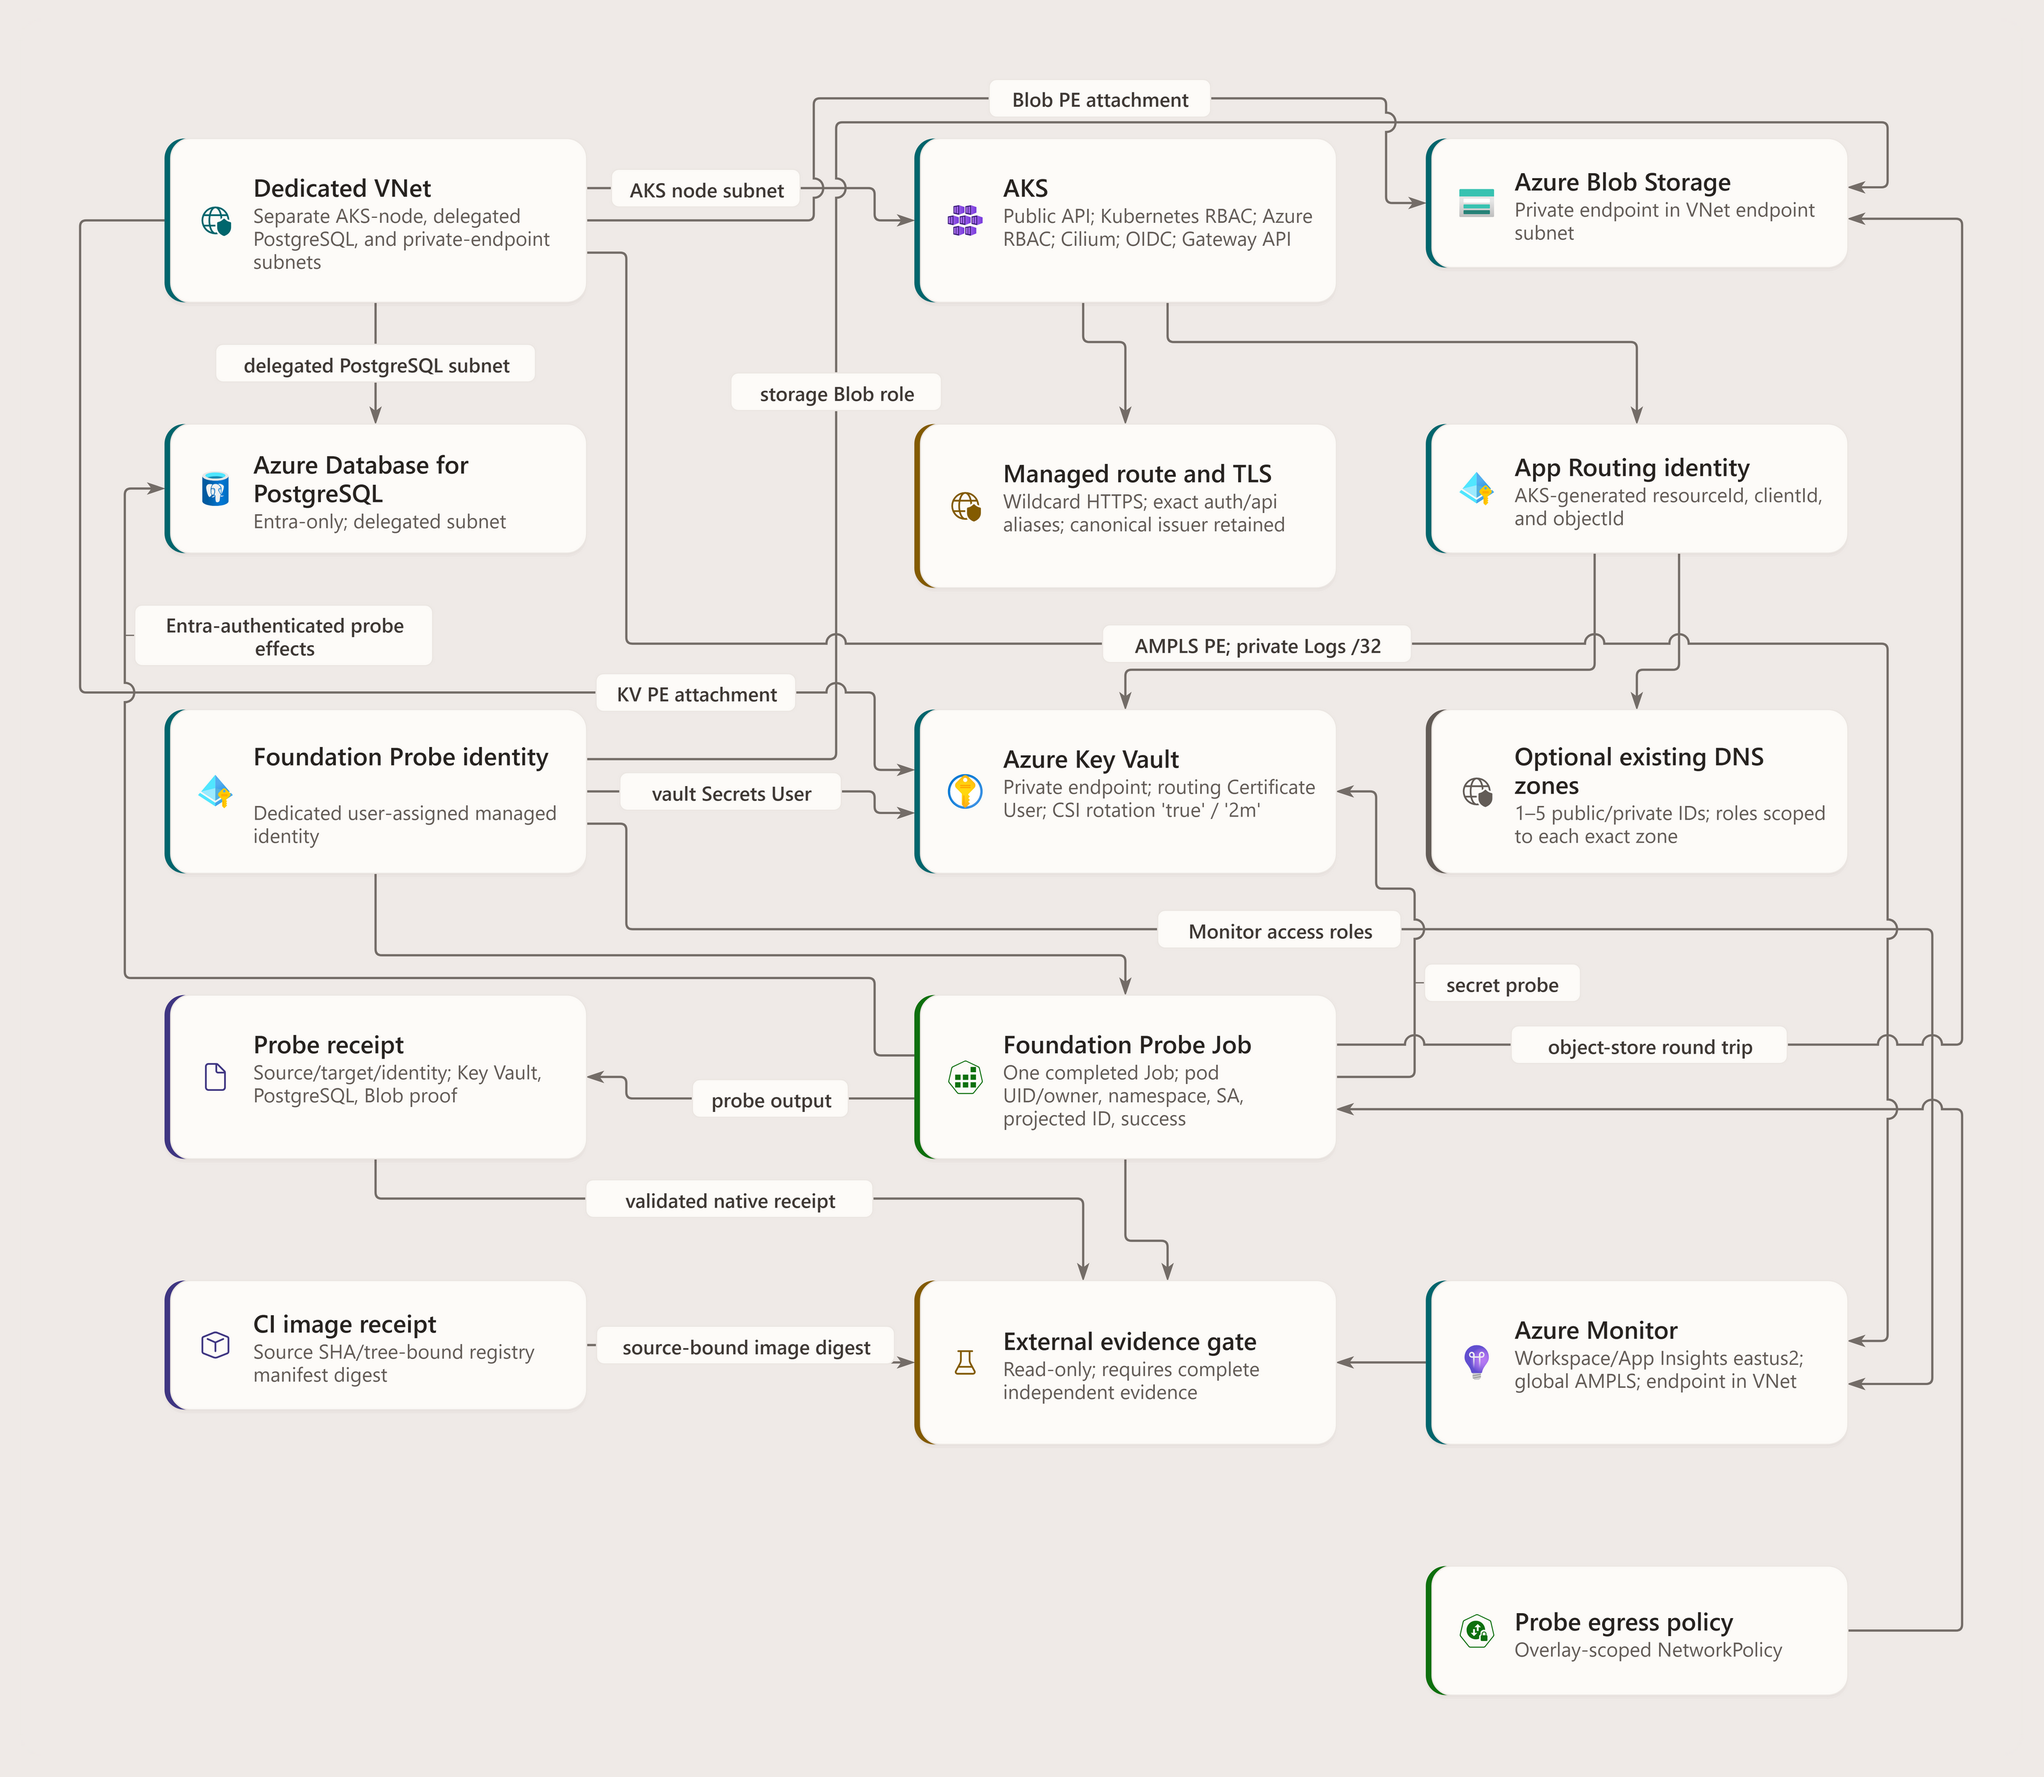
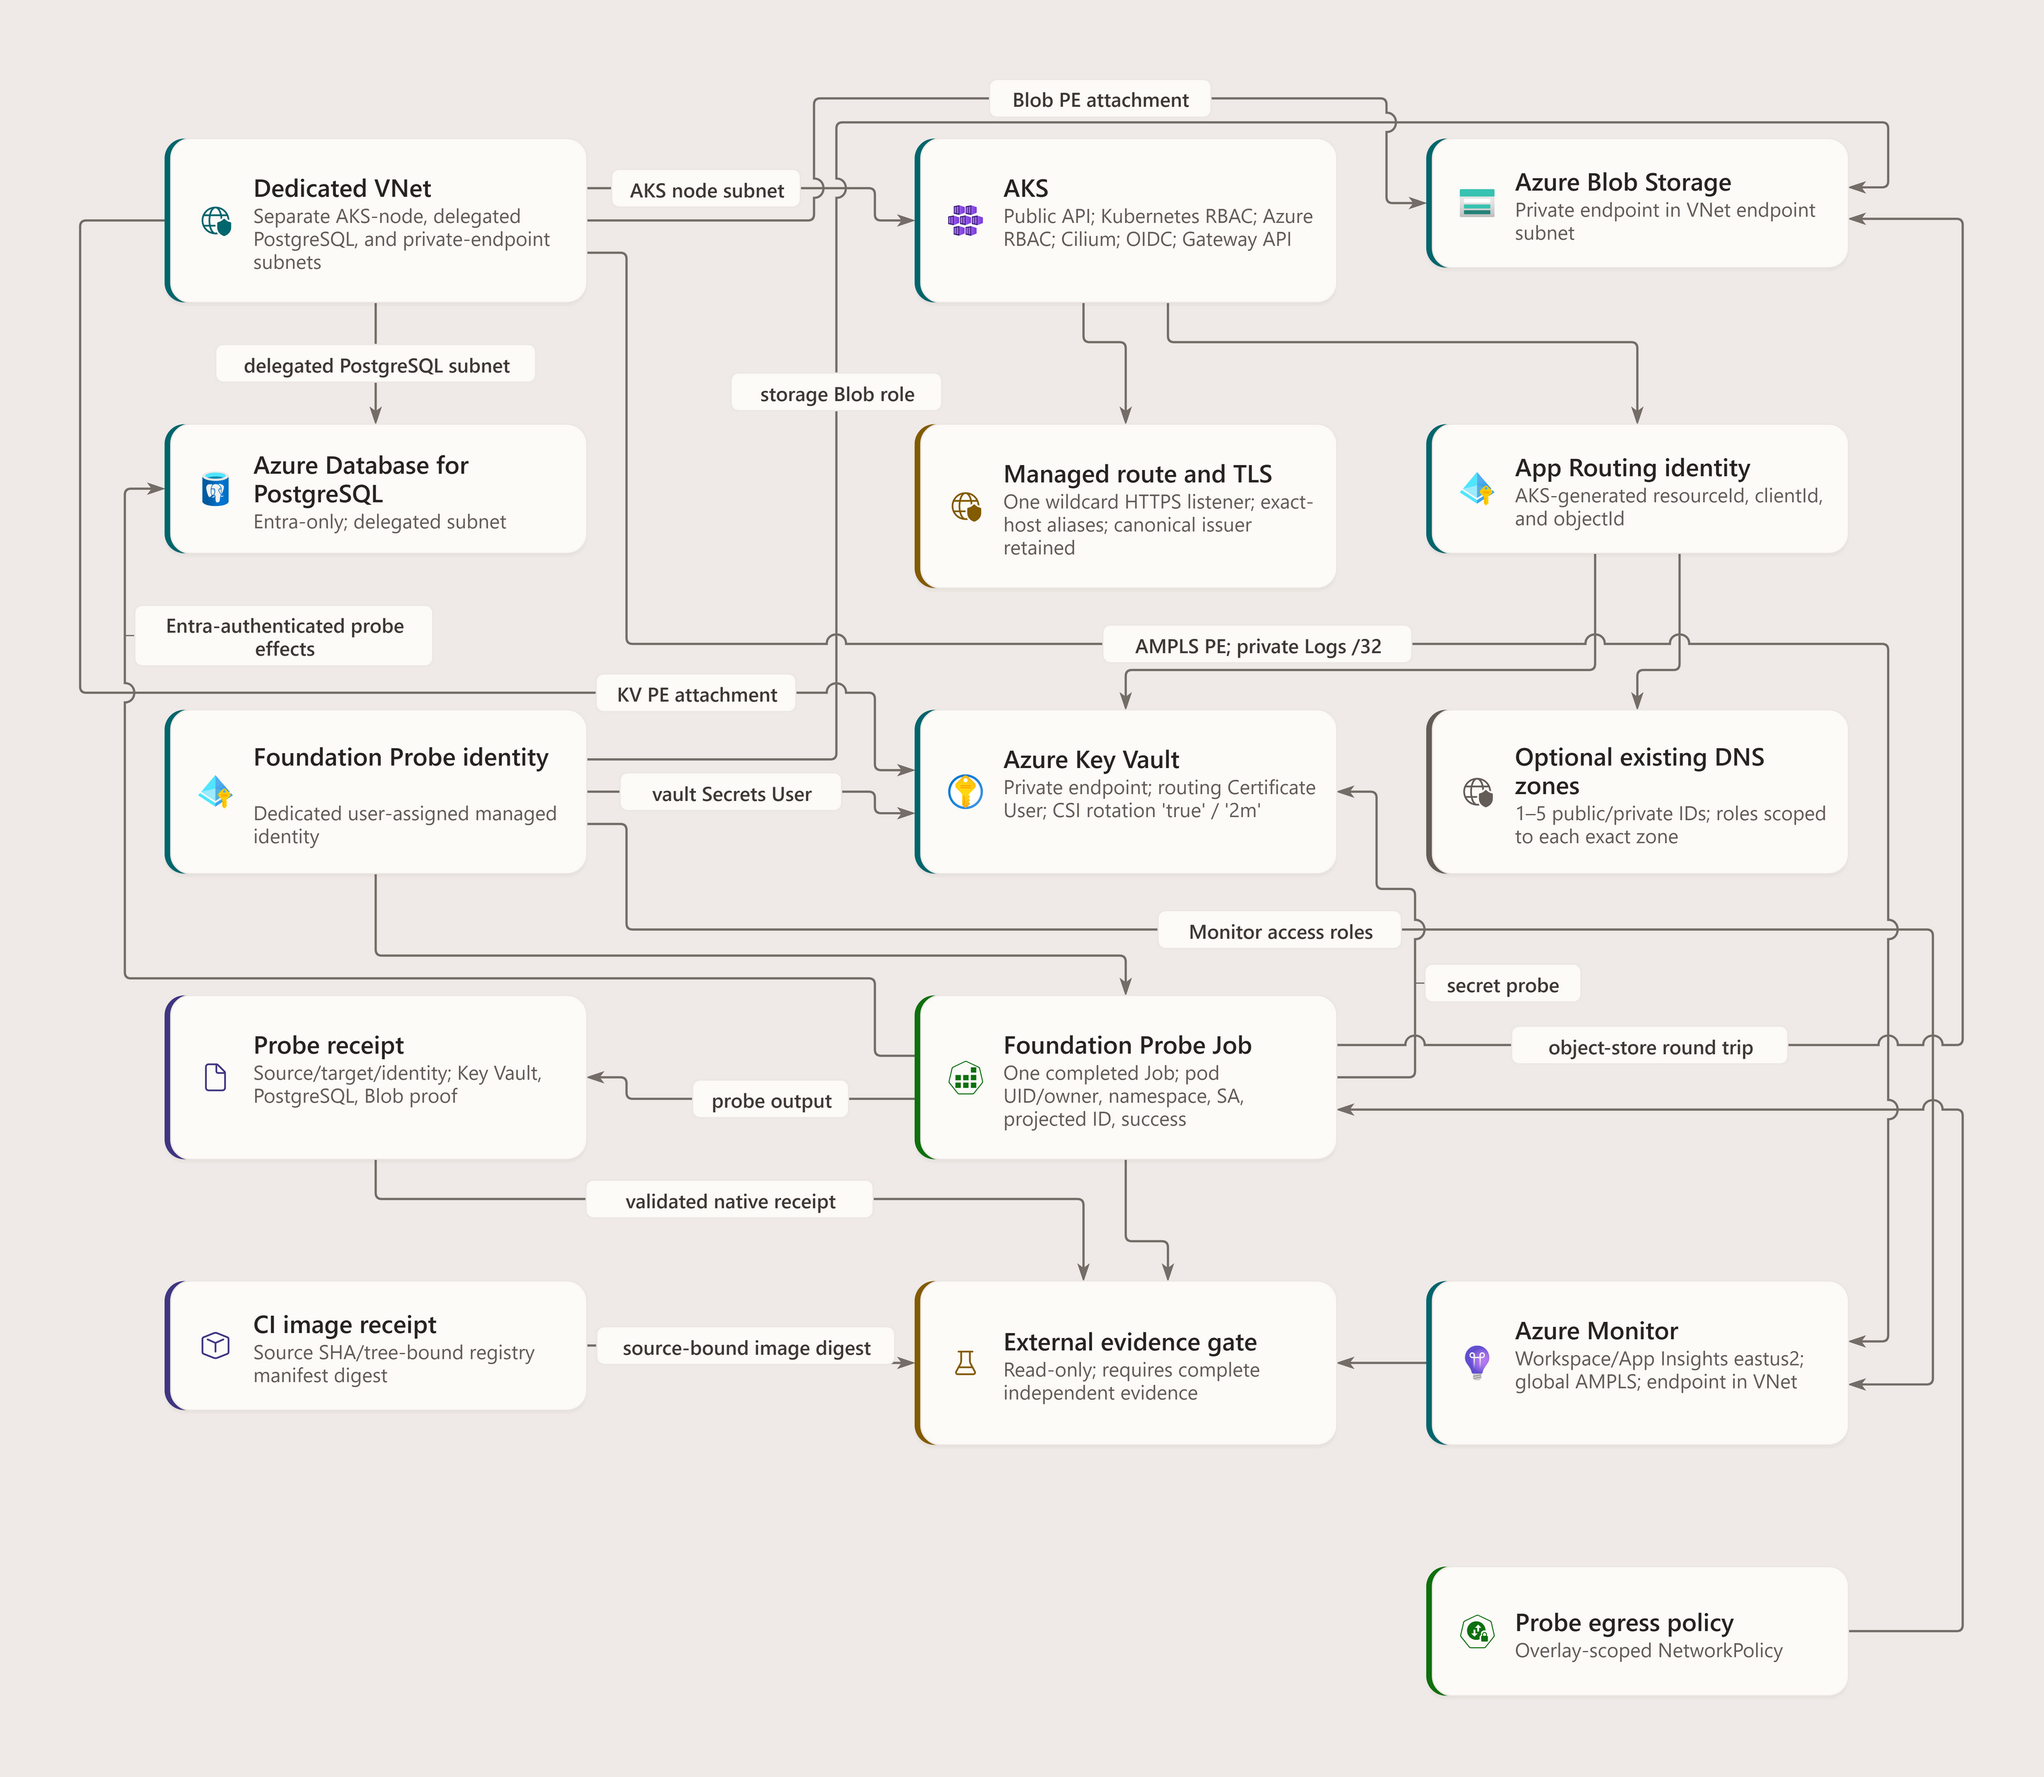
fix(infra): route auth and API aliases through shared listener (#2533)

diff --git a/scripts/azure/README.md b/scripts/azure/README.md
@@ -638,15 +638,14 @@ define a managed certificate, HTTPS Gateway, HTTPRoutes, and BackendTLSPolicies.
 They are not part of ordinary namespace bootstrap.
 The managed certificate supplies a wildcard domain through its status.
 The canonical Broker route uses `agentweaver` as its single-label prefix, not
-the zone root. The existing wildcard `https` listener and Broker/Portal routes
-remain in place. Exact `auth` and `api` listeners are additive aliases using
-the same managed TLS Secret; they route to the existing Broker and Gateway
-Services respectively. The Copilot BFF route remains on the Portal `https`
-listener so its browser flow stays same-origin. The aliases do not change the
-canonical Broker issuer, callback, audience, scopes, or authorization. The
-wildcard listener continues to permit HTTP/2 coalescing between the
-certificate-covered Broker and Portal hosts without creating routes for
-unknown hostnames.
+the zone root. One wildcard `https` listener serves the Broker, Portal, and
+exact-host `auth` and `api` HTTPRoutes with the same managed TLS Secret. The
+`auth` route targets the existing Broker Service; the `api` route targets the
+existing Gateway Service. The Copilot BFF route remains on the Portal host so
+its browser flow stays same-origin. The aliases do not change the canonical
+Broker issuer, callback, audience, scopes, or authorization. HTTP/2
+coalescing uses this shared listener, while exact route hostnames preserve
+host boundaries and unknown hostnames have no route.
 
 The Gateway requires a namespace policy compatible with its managed pods.
 AKS currently rejects a Gateway customization that sets a pod or container
@@ -706,12 +705,12 @@ guarded command again without `--identity-routing-certificates-only`. The full
 phase first verifies that the MCP Service is the exact private HTTPS backend,
 then applies the Gateway, Broker/auth alias, Web, Gateway API/API alias,
 same-origin Copilot BFF, and MCP HTTPRoutes, corresponding BackendTLSPolicies,
-and narrow Cilium ingress policies. The `https` listener sends `/` to Web,
+and narrow Cilium ingress policies. The single wildcard `https` listener
+sends `/` to Web,
 `/api/v1`, exact `/openapi/v1.json`, and the Copilot BFF path to Gateway, and
 exact `/mcp` plus `/.well-known/oauth-protected-resource/mcp` to MCP over
-HTTPS. The exact `auth` listener routes the Broker alias to the existing
-Broker Service; the exact `api` listener routes the Gateway API, OpenAPI,
-BFF, and Repo App paths to the existing Gateway Service.
+HTTPS. The exact-host `auth` and `api` routes attach to `https` and route to
+the existing Broker and Gateway Services, respectively.
 The full phase rejects a missing or changed MCP Service before its first
 routing write.
 Gateway and MCP backend TLS use operator-owned
@@ -796,11 +795,13 @@ After the Broker starts with the approved issuer and required runtime inputs,
 on the canonical Broker and `auth` alias, plus unauthenticated
 `/openapi/v1.json` on the `api` alias. Each request uses ordinary DNS, trusted
 HTTPS, and the Gateway's observed IP. It then opens HTTP/2 sessions to the
-observed Gateway IP in both directions, using Broker SNI with Portal authority
-and Portal SNI with Broker authority; each response must negotiate `h2` and
-return `200`. This verifies the existing route behavior when a browser
-coalesces the certificate-covered hosts. No insecure TLS, DNS override, or
-redirect following is permitted.
+each observed Gateway IP using these SNI/authority/path pairs: Broker/Portal
+`/`, Portal/Broker `/health/live`, Portal/auth
+`/.well-known/openid-configuration`, Portal/api `/openapi/v1.json`, and
+auth/Portal `/`. Each response must negotiate ALPN `h2` and return numeric
+HTTP status `200`. These probes verify routing when a browser coalesces
+certificate-covered hosts. No insecure TLS, DNS override, or redirect
+following is permitted.
 Failure prevents a successful installer receipt.
 The routing option does not create the Broker's runtime ConfigMap, signing
 Secret, key-ring PVC, OAuth registrations, or runtime Deployment.

diff --git a/docs/specs/azure-p0-infrastructure.md b/docs/specs/azure-p0-infrastructure.md
@@ -288,22 +288,23 @@ the Gateway and Broker namespaces.
 The installer derives the initial `agentweaver` hostname from the certificate's status.
 It applies native v1 Gateway and HTTPRoute resources, BackendTLSPolicy,
 and exact namespace/Gateway-label ingress to the HTTPS Broker.
-The listeners admit only the foundation namespace's routes. The existing wildcard
-`https` listener and Broker, Web, Gateway API, Copilot BFF, and MCP routes stay
-in place. Exact `auth` and `api` HTTPS listeners use the same managed TLS
-Secret: `auth` routes to the existing Broker Service, and `api` routes the
-existing Gateway API, OpenAPI, Copilot/Remote MCP BFF, and Repo App Gateway
-paths to the Gateway Service. The Portal Copilot BFF route stays on `https` to
-preserve the same-origin browser flow. Each route retains its exact hostname,
-path, and backend; the wildcard listener continues to support HTTP/2
-coalescing between the canonical Broker and Portal origins, and unknown hosts
-have no matching route.
+The listener admits only the foundation namespace's routes. The existing
+wildcard `https` listener and Broker, Web, Gateway API, Copilot BFF, and MCP
+routes stay in place. Exact-host `auth` and `api` HTTPRoutes attach to that
+listener and use its managed TLS Secret: `auth` routes to the existing Broker
+Service, and `api` routes the existing Gateway API, OpenAPI, Copilot/Remote
+MCP BFF, and Repo App Gateway paths to the Gateway Service. The Portal Copilot
+BFF route stays on `https` to preserve the same-origin browser flow. Each
+route retains its exact hostname, path, and backend; the wildcard listener
+continues to support HTTP/2
+coalescing across these origins without changing exact-host route boundaries.
+Unknown hosts have no matching route.
 
 The shared listener routes `/` to Web, `/api/v1` and exact
 `/openapi/v1.json` to Gateway, the Copilot BFF path to Gateway, and exact
 `/mcp` plus the protected-resource metadata path to MCP over verified backend
-HTTPS. The API alias keeps those Gateway and BFF paths available on its exact
-host. The `auth` alias is not an issuer or callback migration: the issuer and
+HTTPS. The exact-host API alias keeps those Gateway and BFF paths available.
+The `auth` alias is not an issuer or callback migration: the issuer and
 `/signin-oidc` callback remain derived from the canonical `agentweaver` Broker
 HTTPRoute. Gateway and MCP use operator-owned leaf certificates for their
 exact service DNS names, signed by the public CA certificate in the
@@ -321,8 +322,10 @@ and object IDs at the write boundary.
 It patches only the fresh public redirect list.
 An existing exact callback remains a no-op.
 Permission errors never trigger grants, application creation, or client-secret creation.
-The optional readiness check requires ordinary DNS and trusted HTTPS responses
-from both Broker health endpoints at the Gateway's observed IP.
+The optional readiness check requires ordinary DNS, trusted HTTPS responses,
+and HTTP/2 cross-host probes at every observed Gateway IP. It reports routing
+transport readiness, not browser acceptance. Each HTTP/2 response must use
+ALPN `h2` and return numeric status `200`.
 Routing configuration alone reports `runtimeVerified: false`.
 It is not evidence of deployed acceptance.
 

diff --git a/docs/architecture/azure.md b/docs/architecture/azure.md
@@ -96,22 +96,23 @@ addon or an Istio API requirement.
 The root Kustomize bundle supplies the exact-host Portal Web HTTPRoute, which
 references the shared `https` listener but does not create the Gateway or
 listener. The separate default-off routing installer uses native managed
-certificates, the existing wildcard `https` listener, and exact `auth` and
-`api` HTTPS alias listeners using the same managed TLS Secret. It requires
-explicit approved Gateway namespace and security-policy inputs. The product
-namespace remains restricted.
+certificates, one wildcard `https` listener, and exact-host `auth` and `api`
+HTTPRoutes attached to that listener. The routes use the same managed TLS
+Secret through the listener. The installer requires explicit approved Gateway
+namespace and security-policy inputs. The product namespace remains restricted.
 
 The existing Broker, Web, Gateway API, Copilot BFF, and MCP routes remain on
 the `https` listener and retain their exact hosts, paths, and backends. The
 Copilot BFF route stays on the Portal host so its browser flow remains
-same-origin. The `auth` listener routes its exact host to the existing Broker
-Service; the `api` listener routes existing Gateway API, OpenAPI, Copilot/
-Remote MCP BFF, and Repo App Gateway paths to the existing Gateway Service.
+same-origin. The exact `auth` HTTPRoute sends its host to the existing Broker
+Service; the exact `api` HTTPRoute sends the existing Gateway API, OpenAPI,
+Copilot/Remote MCP BFF, and Repo App Gateway paths to the existing Gateway
+Service.
 The Broker issuer and callback remain on the canonical `agentweaver` route;
 the aliases do not change issuer, audience, callback registration, token
 scopes, or authorization. The wildcard listener still supports HTTP/2
-connection coalescing between the Broker and Portal origins, while unmatched
-hosts have no route.
+connection coalescing across these origins while exact HTTPRoute hostnames
+preserve host boundaries. Unmatched hosts have no route.
 
 The shared listener routes `/` to Web, `/api/v1` and exact
 `/openapi/v1.json` to Gateway, the Copilot BFF path to Gateway, and exact
@@ -123,7 +124,9 @@ traffic. The issuer comes from the admitted canonical Broker route hostname.
 Public callback changes default to read-only append/no-op plans.
 An append requires separate explicit registration and exact-URI confirmation.
 The installer fresh-reads the selected application and preserves all other properties.
-Only the optional ordinary-DNS and trusted-HTTPS health checks prove Broker readiness.
+The optional readiness operation checks ordinary DNS, trusted HTTPS, and
+HTTP/2 cross-host routing at each observed Gateway IP. It verifies transport
+readiness, not browser sign-in.
 See [the operator interface](https://github.com/sabbour/agentweaver/blob/v1/scripts/azure/README.md#application-routing-source-setting).
 
 Separate default-off installer operations create initial Broker signing

diff --git a/docs/specs/identity-broker.md b/docs/specs/identity-broker.md
@@ -300,18 +300,21 @@ immutable registry digest; the checked-in sentinel is not deployable.
 
 The separate routing candidate uses native AKS-managed Gateway API resources.
 Its managed certificate supplies the `agentweaver` hostname within the AKS
-wildcard domain, not the DNS zone root. It retains the existing wildcard
-`https` listener and Broker and Portal routes, then adds exact `auth` and `api`
-listeners with the same managed TLS Secret. The `auth` alias routes to the
-existing Broker Service; the `api` alias routes existing Gateway API, OpenAPI,
-Copilot/Remote MCP BFF, and Repo App Gateway paths to the Gateway Service.
+wildcard domain, not the DNS zone root. It uses one wildcard `https` listener
+for the Broker, Portal, and exact-host routes. The exact `auth` and `api`
+HTTPRoutes attach to that listener and use the same managed TLS Secret. The
+`auth` alias routes to the existing Broker Service; the `api` alias routes
+existing Gateway API, OpenAPI, Copilot/Remote MCP BFF, and Repo App Gateway
+paths to the Gateway Service.
 The Copilot BFF path also remains on the existing Portal `https` listener so
 the browser's cookie-backed flow stays same-origin. These are transport aliases:
 the canonical Broker issuer and `/signin-oidc` callback remain on the existing
 `agentweaver` hostname. No callback, audience, token scope, or authorization
 behavior changes. The guarded installer checks current-generation listener and
 route conditions, DNS/TLS for the aliases, and the unauthenticated API OpenAPI
-route. BackendTLSPolicy keeps HTTPS between the Gateway and Kestrel.
+route. Its optional readiness check also verifies cross-host HTTP/2 routing
+with ALPN `h2` and HTTP 200 responses. BackendTLSPolicy keeps HTTPS between
+the Gateway and Kestrel.
 It validates the backend certificate with system trust and the route hostname.
 The issuer and callback are still derived from the admitted canonical Broker
 HTTPRoute, never from the `auth` alias.

diff --git a/.changeset/broker-shared-wildcard-routes.md b/.changeset/broker-shared-wildcard-routes.md
@@ -1,0 +1,6 @@
+---
+"Agentweaver.Identity.Broker": patch
+---
+
+Route the Broker auth and Gateway API aliases through the shared wildcard
+HTTPS listener so HTTP/2 connection coalescing preserves exact-host routing.
